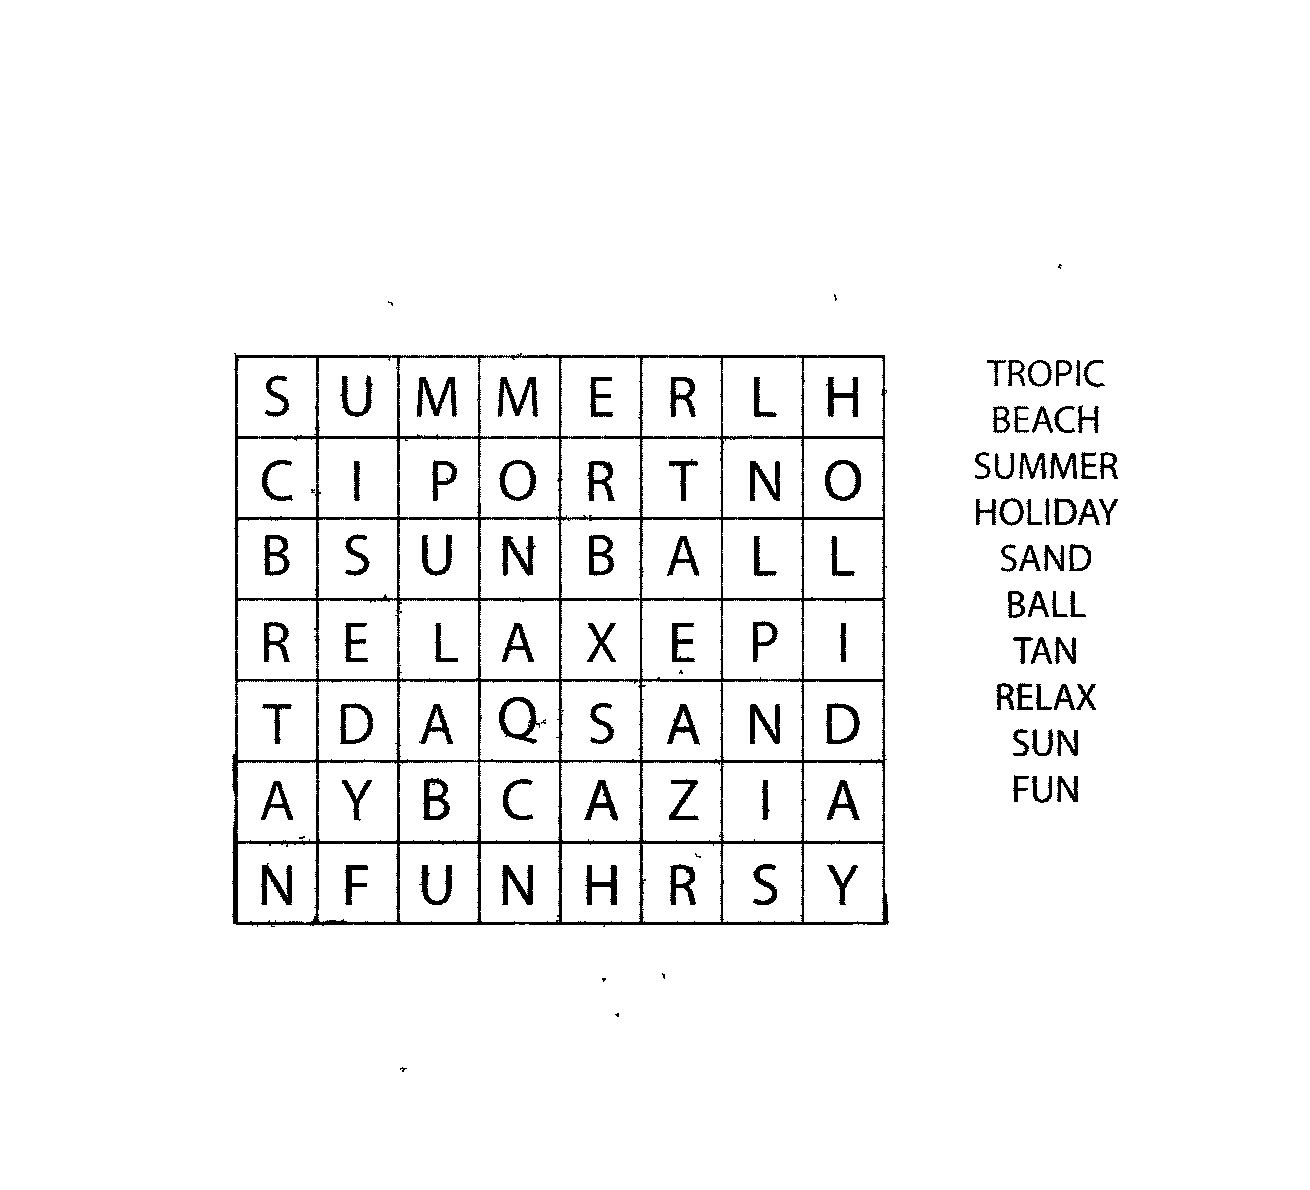
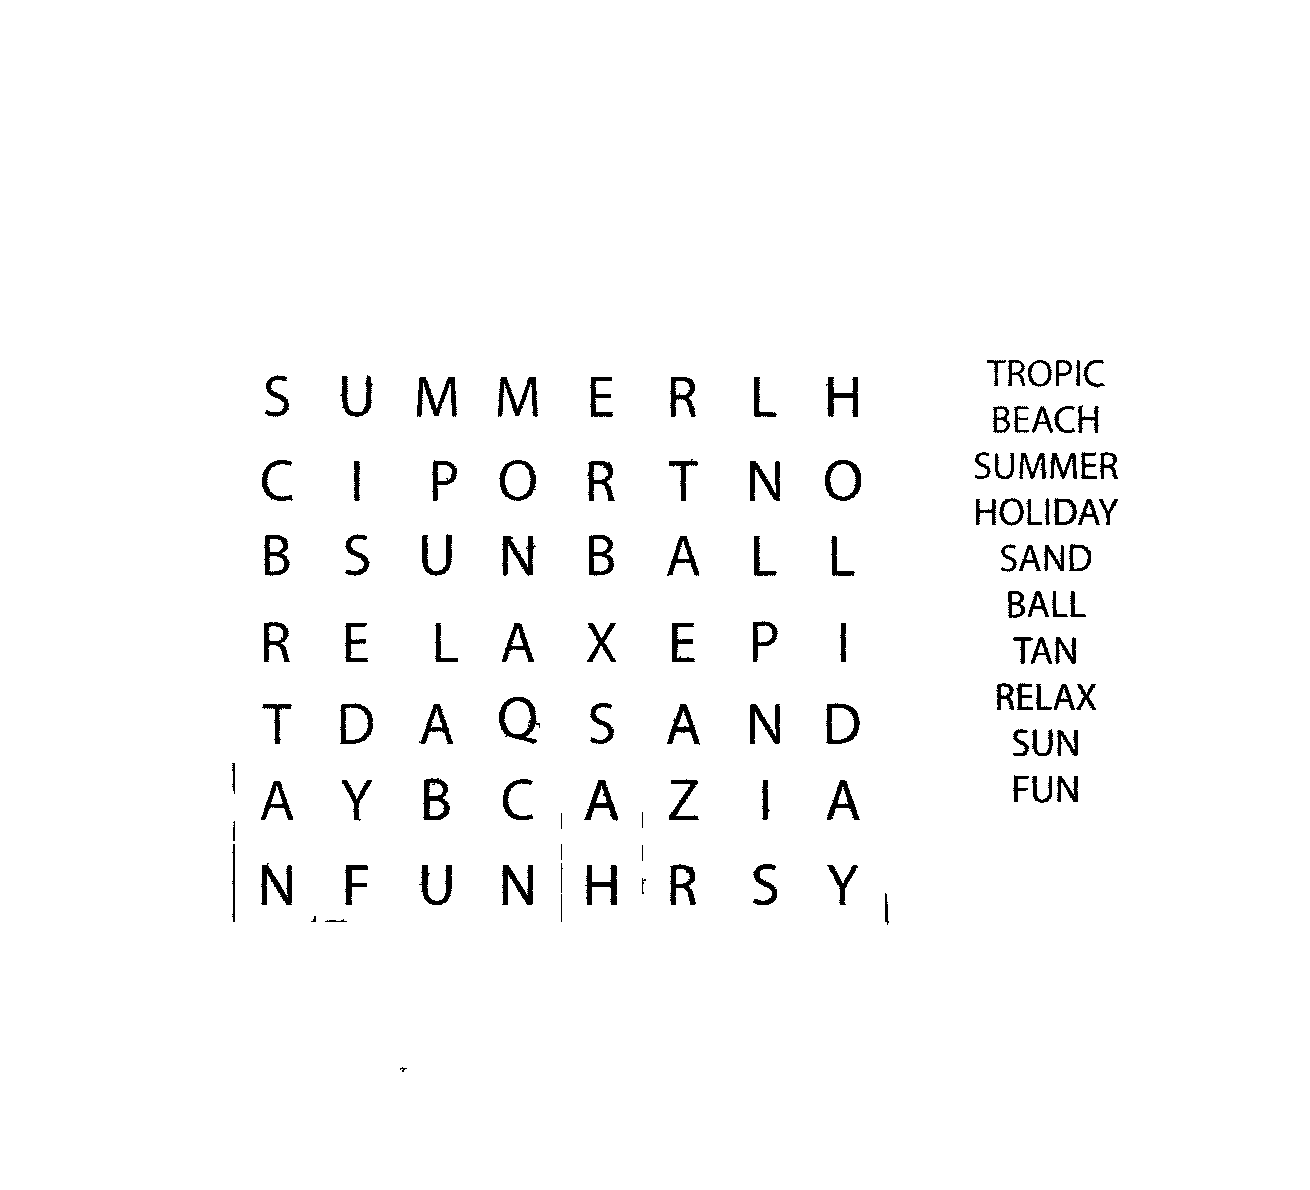
1

diff --git a/src/preprocessing.c b/src/preprocessing.c
@@ -221,37 +221,103 @@ Image* remove_grid_lines(Image *src)
         return NULL;
     }
 
-    for (int y = 0; y < h; ++y) {
-        for (int x = 0; x < w; ++x) {
+    for (int y = 0; y < h; ++y)
+        for (int x = 0; x < w; ++x)
             if (src->data[y*w + x] == 0) {
                 colCount[x]++;
                 rowCount[y]++;
             }
-        }
-    }
 
-    int col_thresh = (int)(0.7f * h);
-    int row_thresh = (int)(0.7f * w);
+    int grid_x_min = w, grid_x_max = -1;
+    int grid_y_min = h, grid_y_max = -1;
+
+    int col_band_thresh = (int)(0.3f * h);
 
     for (int x = 0; x < w; ++x) {
-        if (colCount[x] > col_thresh) {
-            for (int y = 0; y < h; ++y)
-                dst->data[y*w + x] = 255;
+        if (colCount[x] > col_band_thresh) {
+            if (x < grid_x_min) grid_x_min = x;
+            if (x > grid_x_max) grid_x_max = x;
         }
     }
+
+    int row_band_thresh = (int)(0.3f * w);
 
     for (int y = 0; y < h; ++y) {
-        if (rowCount[y] > row_thresh) {
-            for (int x = 0; x < w; ++x)
+        if (rowCount[y] > row_band_thresh) {
+            if (y < grid_y_min) grid_y_min = y;
+            if (y > grid_y_max) grid_y_max = y;
+        }
+    }
+
+    if (grid_x_max < grid_x_min || grid_y_max < grid_y_min) {
+        free(colCount);
+        free(rowCount);
+        return dst;
+    }
+
+    grid_x_min -= 2; if (grid_x_min < 0) grid_x_min = 0;
+    grid_x_max += 2; if (grid_x_max >= w) grid_x_max = w - 1;
+    grid_y_min -= 2; if (grid_y_min < 0) grid_y_min = 0;
+    grid_y_max += 2; if (grid_y_max >= h) grid_y_max = h - 1;
+
+    int *rowGrid = calloc(h, sizeof(int));
+    if (!rowGrid) {
+        free(colCount);
+        free(rowCount);
+        free(dst->data);
+        free(dst);
+        return NULL;
+    }
+
+    for (int y = grid_y_min; y <= grid_y_max; ++y) {
+        int cnt = 0;
+        for (int x = grid_x_min; x <= grid_x_max; ++x)
+            if (src->data[y*w + x] == 0)
+                cnt++;
+        rowGrid[y] = cnt;
+    }
+
+    int *colGrid = calloc(w, sizeof(int));
+    if (!colGrid) {
+        free(rowGrid);
+        free(colCount);
+        free(rowCount);
+        free(dst->data);
+        free(dst);
+        return NULL;
+    }
+
+    for (int x = grid_x_min; x <= grid_x_max; ++x) {
+        int cnt = 0;
+        for (int y = grid_y_min; y <= grid_y_max; ++y)
+            if (src->data[y*w + x] == 0)
+                cnt++;
+        colGrid[x] = cnt;
+    }
+
+    int row_line_thresh = (int)(0.6f * (grid_x_max - grid_x_min + 1));
+    int col_line_thresh = (int)(0.6f * (grid_y_max - grid_y_min + 1));
+
+    for (int y = grid_y_min; y <= grid_y_max; ++y) {
+        if (rowGrid[y] > row_line_thresh) {
+            for (int x = grid_x_min; x <= grid_x_max; ++x)
                 dst->data[y*w + x] = 255;
         }
     }
 
+    for (int x = grid_x_min; x <= grid_x_max; ++x) {
+        if (colGrid[x] > col_line_thresh) {
+            for (int y = grid_y_min; y <= grid_y_max; ++y)
+                dst->data[y*w + x] = 255;
+        }
+    }
+
+    free(colGrid);
+    free(rowGrid);
     free(colCount);
     free(rowCount);
     return dst;
 }
-
 
 
 Image* enhance_contrast(Image *src)

diff --git a/src/main.c b/src/main.c
@@ -57,7 +57,7 @@ int main(void)
 	Image *no_grid = remove_grid_lines(bin);
 	free_image(bin);
 
-	Image *no_small = remove_small_components(no_grid, 10);
+	Image *no_small = remove_small_components(no_grid, 15);
 	free_image(no_grid);
 
 	save_image(output_path, no_small);
